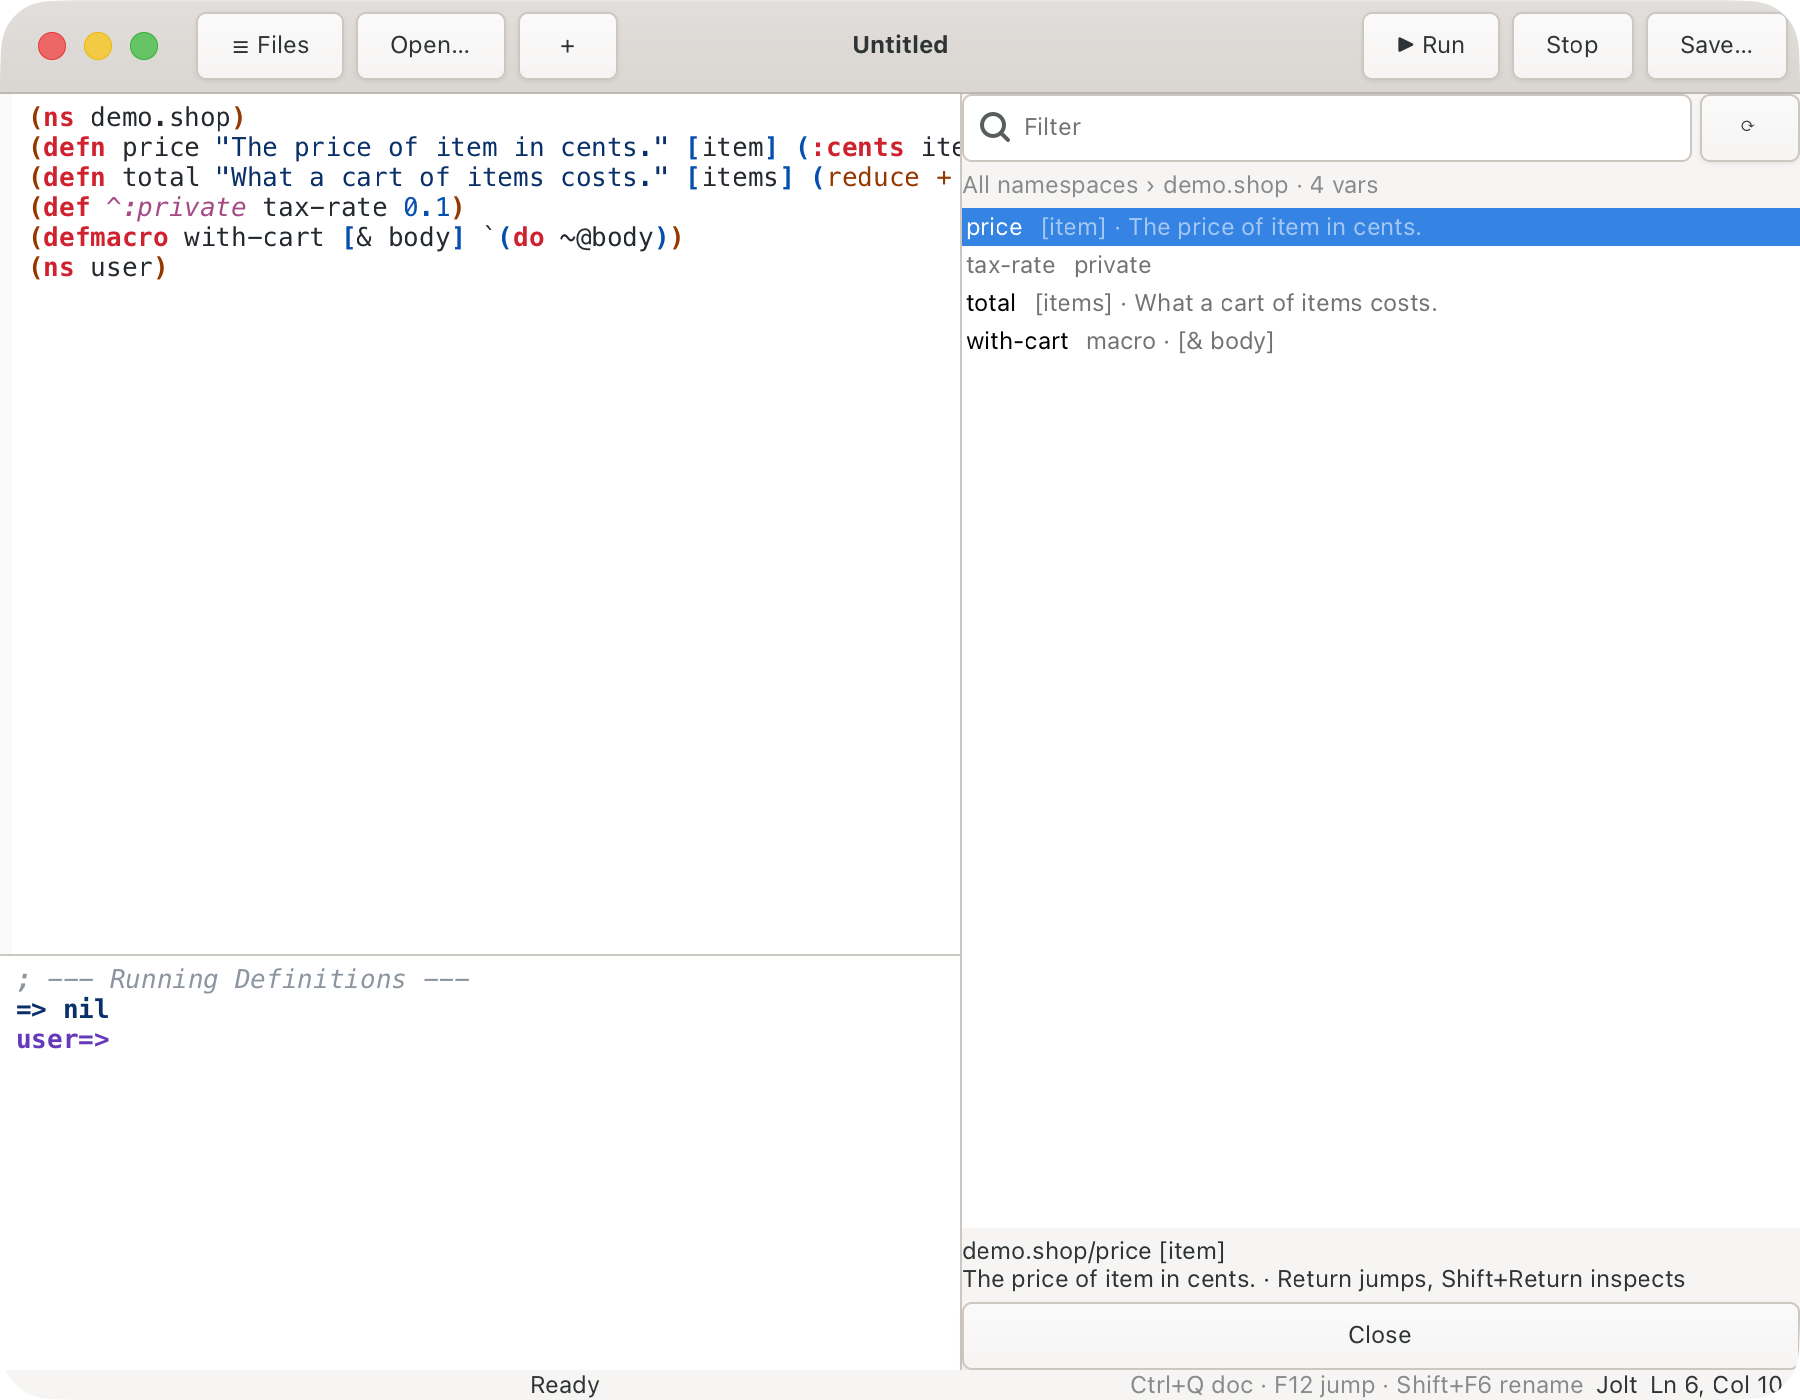
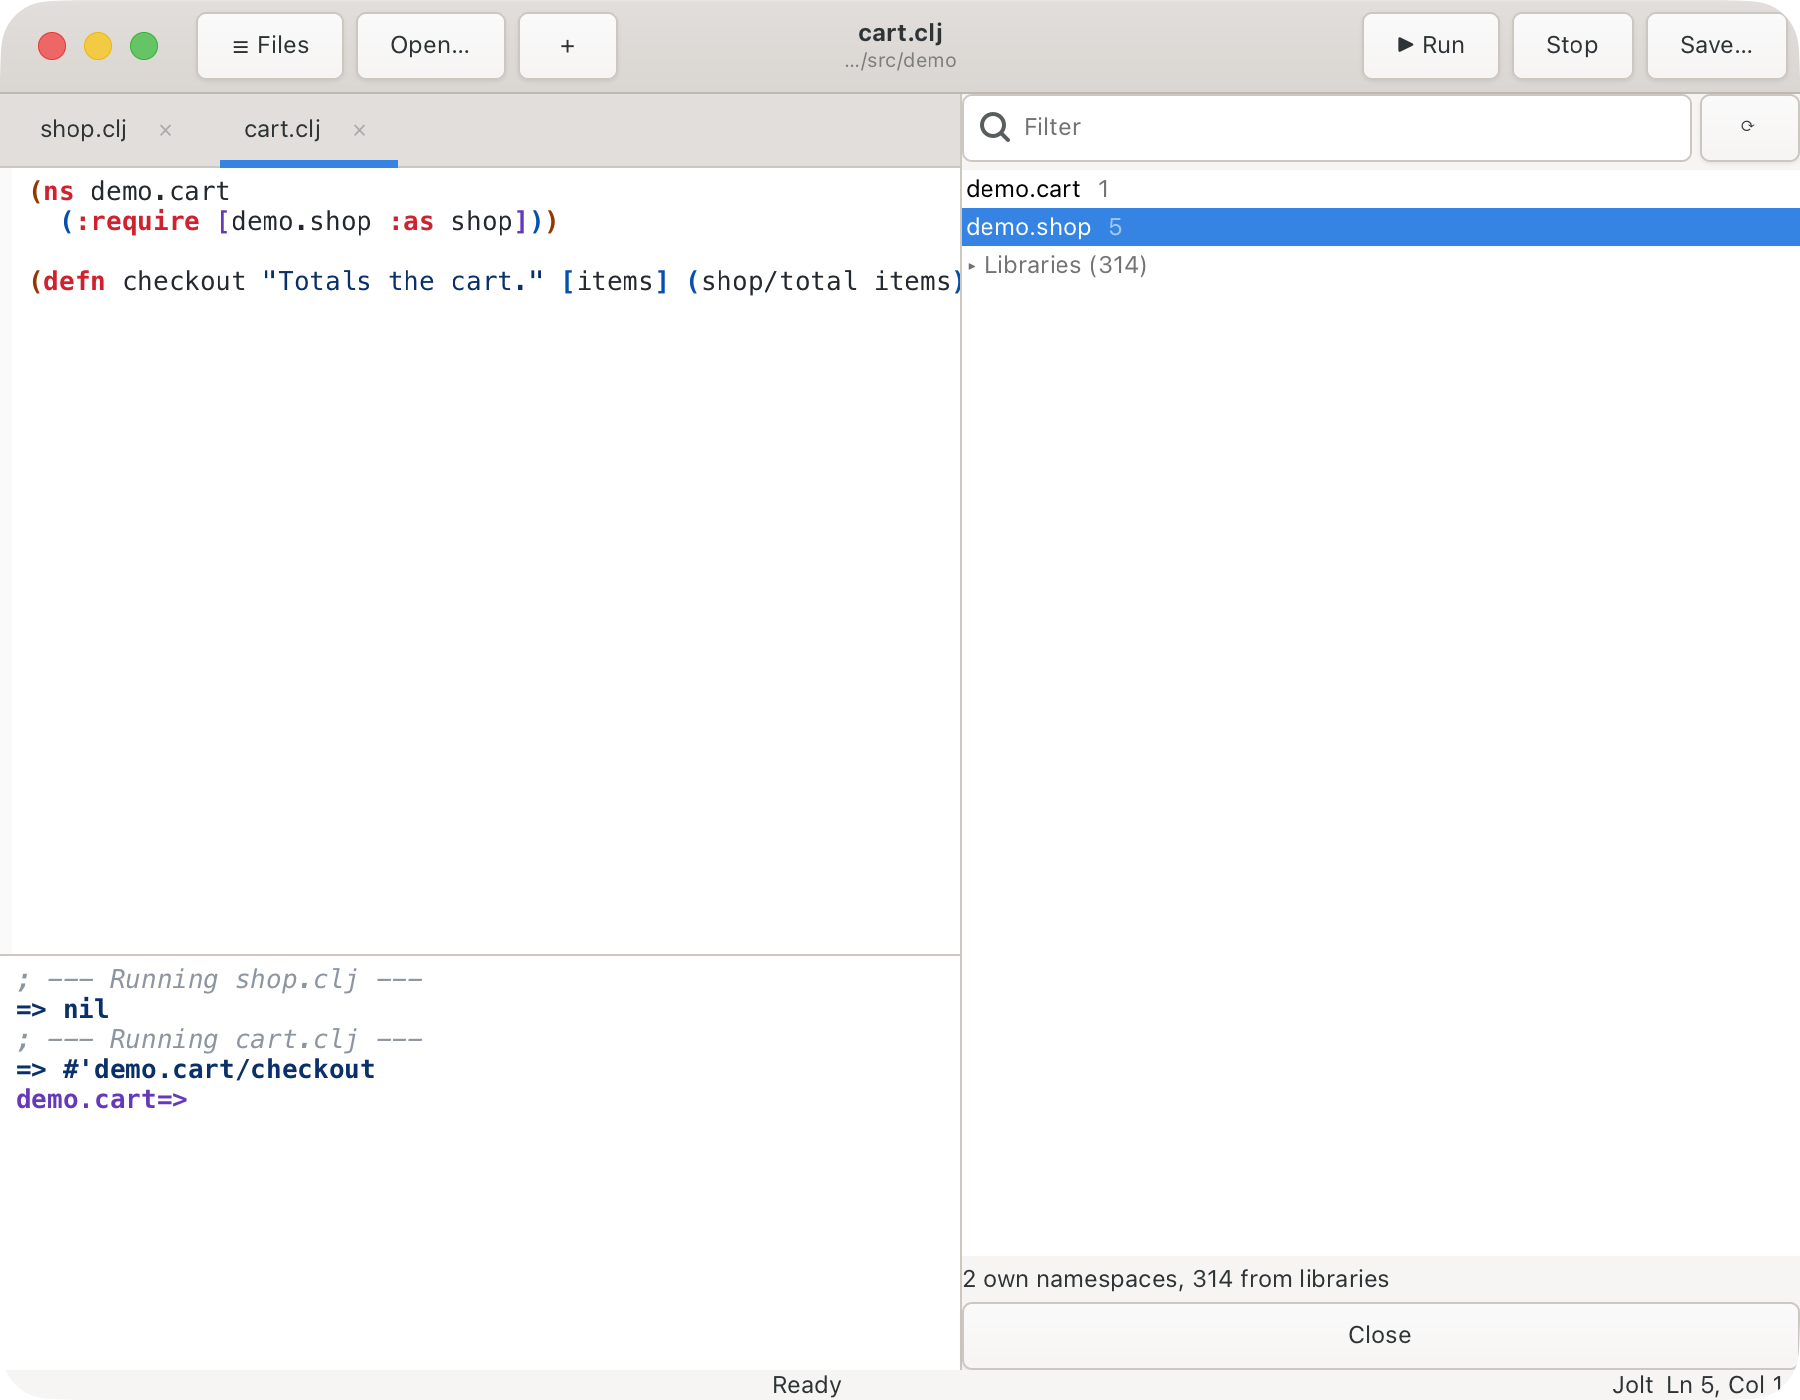
docs: Namespaces screenshots of the top level, a namespace's vars and Shift+Return in the Inspector

diff --git a/docs/guide/help-and-inspector.md b/docs/guide/help-and-inspector.md
@@ -130,7 +130,7 @@ sit in a **Libraries** group below them, folded until you press Return on it
 or click it. A namespace counts as yours when its file is in the project, so
 one with no file (`user`, say) goes under Libraries.
 
-![The Namespaces panel stepped into demo.shop, listing price, a dimmed private tax-rate, total and the with-cart macro, with the selected var's arglists and doc in the footer](../images/namespaces.png)
+![The Namespaces panel after shop.clj and cart.clj ran: demo.cart with 1 var and demo.shop with 5 at the top, a folded Libraries group of 314 below them, and the footer counting 2 own namespaces and 314 from libraries](../images/namespaces.png)
 
 - Return on a namespace steps into it and lists its vars, each with its
   arglists and the first line of its doc. Private vars are dimmed, and a
@@ -145,6 +145,10 @@ one with no file (`user`, say) goes under Libraries.
 - The filter at the top narrows the rows shown by name, ignoring case, and
   opens the Libraries group while it has text. Return in the filter acts on
   the first row and Down moves into the list.
+
+![The panel stepped into demo.shop: catalog, price with its arglists and doc, a dimmed private tax-rate, total, and the with-cart macro, with price selected and its full name, doc and file:line in the footer](../images/namespaces-vars.png)
+
+![After Shift+Return on catalog: the console shows (deref (var demo.shop/catalog)) and its map, and the Inspector shows the map's three items with their :cents and :stock](../images/namespaces-inspect.png)
 
 The panel asks the runtime when it opens, when you press ⟳, and a moment
 after each evaluation finishes while it's on screen, so a `defn` you just ran
